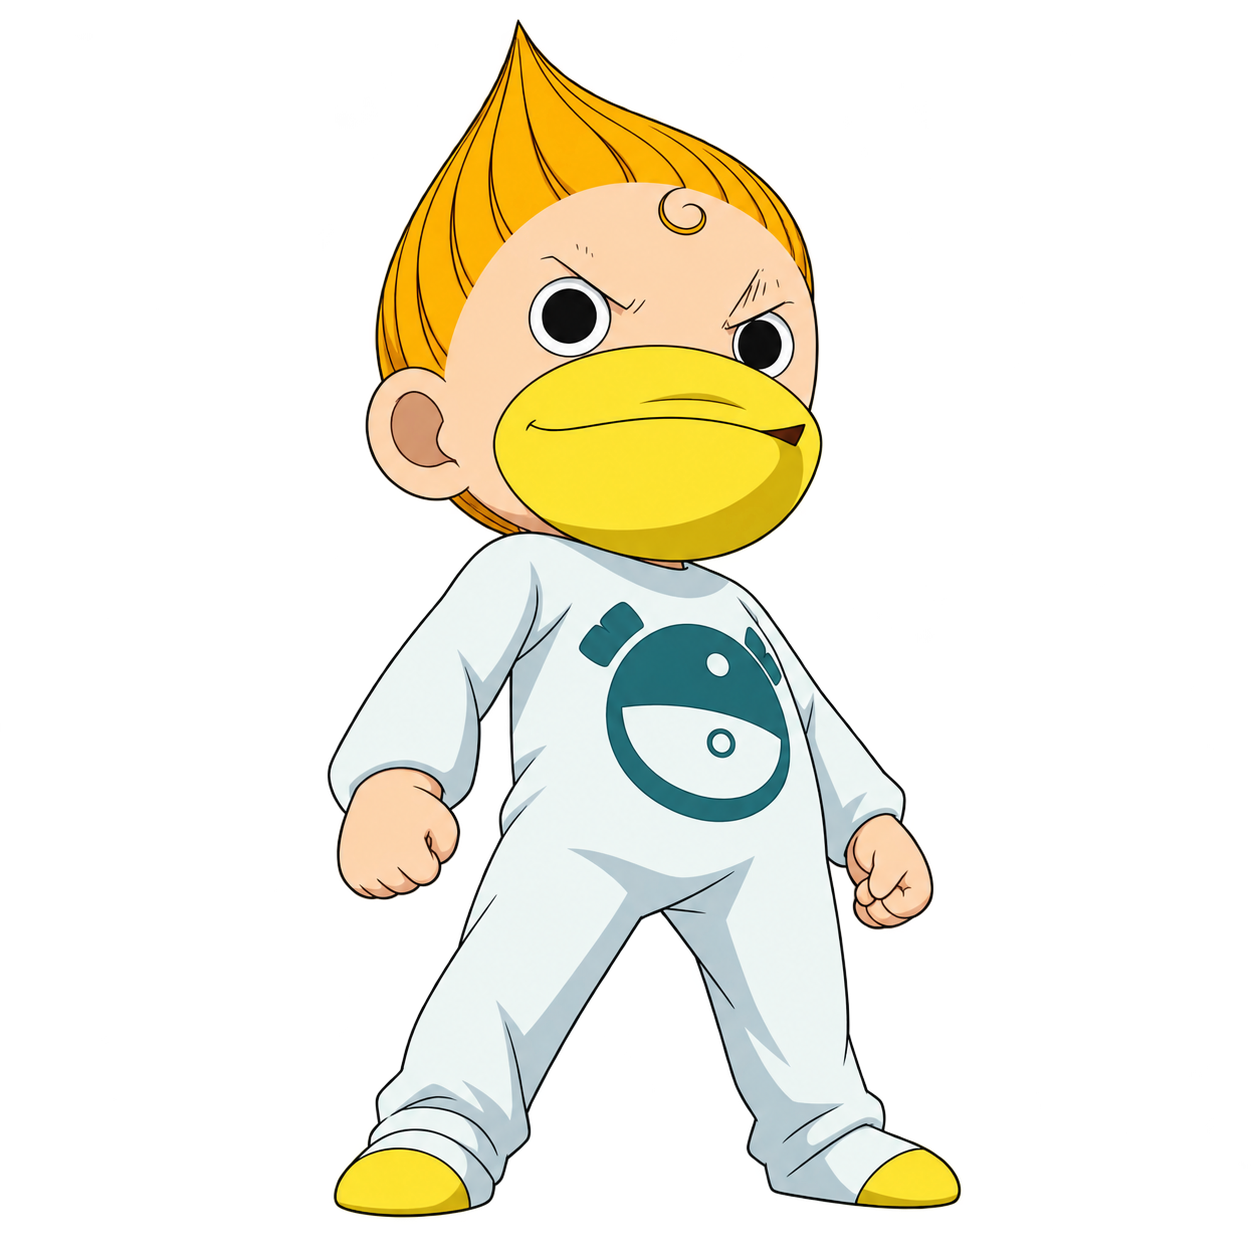
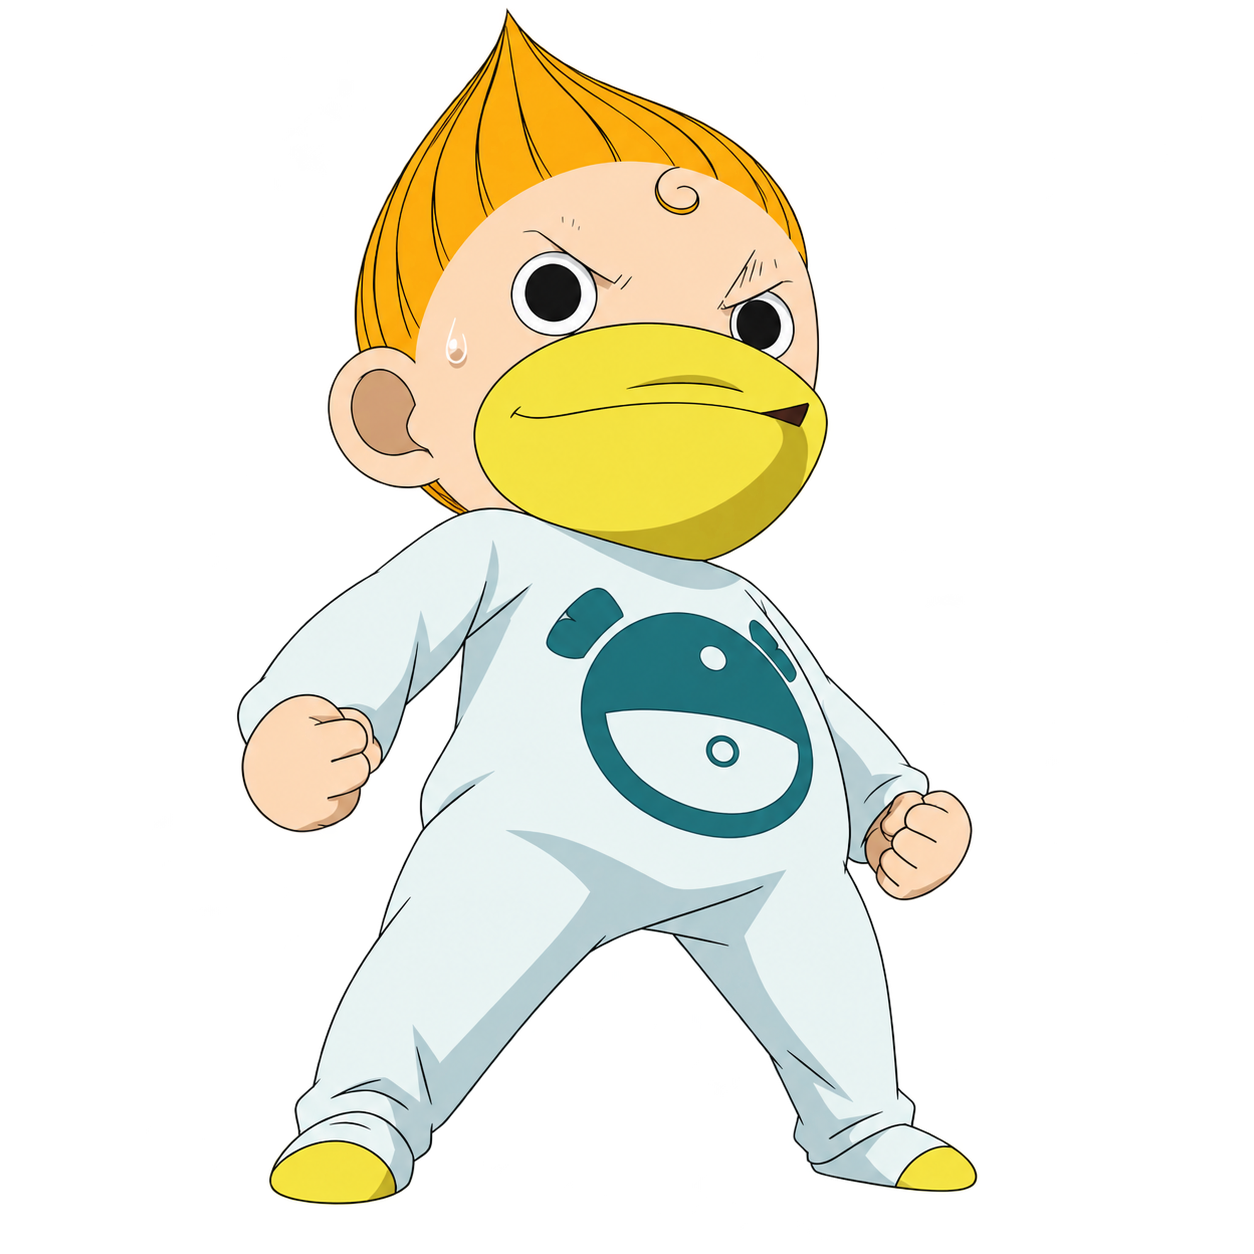
✨ feat: 원본 이미지 기준으로 마스코트 표정 세트 교체

diff --git a/docs/mascot-prompts.md b/docs/mascot-prompts.md
@@ -1,19 +1,27 @@
 # 마스코트 생성 기록
 
-Codex 기본 내장 image_gen으로 생성했다. 사용자 제공 칸쵸메 이미지는 캐릭터 참조이며, 기본 표정 생성본을 나머지 표정의 참조로 사용했다. 모두 투명 배경(`transparent_background: true`)이다. 개인용 로컬 앱에서만 쓴다.
+Codex 내장 image_gen으로 제작한 두 번째 세트다. 네 표정 모두 사용자가 처음 첨부한 파란 배경 원본만 직접 참조했다. 이전 생성 이미지는 참조하지 않았다. 원본의 얼굴·의상·주먹을 쥔 자세를 유지하고 배경과 표정만 바꾸도록 요청했다. 모두 transparent_background: true이며 개인용 로컬 앱에서만 쓴다.
 
 저장 위치: `src/main/resources/static/mascot/{idle,proud,shock,cry}.png`.
 
-## 기본 표정 프롬프트
+## 공통 프롬프트
 
-Use case: illustration-story. Project asset: single small UI mascot PNG with genuine transparent alpha background. Use attached image as character identity reference: Kanchome, tall golden pointed onion hair, small forehead curl, peach face, very large bright yellow duck lips, black round eyes, white outfit with teal chest emblem and yellow shoes. Redraw this exact character in clean expressive anime cel illustration, recognizable proportions, strong readable silhouette at 72px. One full body character centered in square frame, margin 8% on every side, no crop, no scenery, no floor shadow, no text or watermark. Mood IDLE: confident neutral stance, arms relaxed, attentive slightly cocky expression. Keep original costume and distinctive tall hair; do not replace with generic duck, tuft or blue pants. This asset is for a private personal local app.
+Faithful image edit of the ATTACHED ORIGINAL ANIME SCREENSHOT, not a redesign. This original screenshot is the ONLY identity and style reference. Preserve its exact character silhouette, head-to-body ratio, broad asymmetrical face, enormous oval yellow lips, golden onion-shaped hair with fine black strand lines and forehead curl, eye design, thin slightly imperfect anime linework, original muted cel colors, baggy white long-sleeve suit, dark teal fish emblem and yellow shoes. Keep the ORIGINAL legs-apart fighting stance, arm positions and viewing angle. Do not make cuter, rounder, cleaner, sticker-like, chibi, glossy, 3D or vector. Remove ALL blue scenery, speed lines, ground and ground shadow; real transparent background with clean edges. Entire character including hair and feet in a square canvas, consistent scale and framing, 5% padding, no labels or text.
 
-## 표정 변형 공통 프롬프트
+## 표정별 추가 프롬프트
 
-Use case: identity-preserve. Asset type: single transparent PNG UI mascot. Edit this reference character into the following mood: {expression} Keep EXACT same Kanchome identity, tall pointed golden onion hair and forehead curl, peach skin, huge yellow duck lips, white outfit with teal chest emblem and yellow shoes, clean anime cel shading and linework. Single full-body character, centered, complete hair and feet visible, 8% transparent margin all sides, readable at 72px. Genuine transparent alpha background. No scene, no ground, no cast shadow, no text or watermark. Output only this one character.
+### idle
 
-`{expression}`에 사용한 문장:
+Change ONLY background to transparency and extend hair tip minimally if cut. Keep the exact original confident face and pose. Match original pixels as closely as possible.
 
-- proud: Proud happy smug expression, eyes joyfully closed in upward arcs, chin lifted, chest out, hands on hips, boasting adorably.
-- shock: Shocked startled expression, very wide round eyes, eyebrows raised high, large yellow lips open in surprise, hands raised near cheeks.
-- cry: Crying disappointed expression, squeezed shut eyes with visible big blue tears flowing down cheeks, trembling yellow duck lips, slumped shoulders, both hands rubbing eyes or close to face.
+### proud
+
+Change ONLY facial expression to proud/smug: eyes happily closed in arcs, slightly lifted brows and confident closed yellow lips. Keep original pose, arms, head, body, costume, hair and original drawing style unchanged.
+
+### shock
+
+Change ONLY facial expression to shock: widen eyes and pupils, raise eyebrows, slightly open yellow lips in startled surprise. Keep original pose, arms, head size, body, costume, hair and original drawing style unchanged.
+
+### cry
+
+Change ONLY facial expression to crying: squeezed shut eyes, flowing blue tears down cheeks and downturned trembling yellow lips. Keep original pose, arms, head size, body, costume, hair and original drawing style unchanged.

diff --git a/docs/design.md b/docs/design.md
@@ -45,7 +45,7 @@
 - **빈 상태**: 직접 그리지 말고 `hey(mood, 대사, size)`를 쓴다.
 
 ## 마스코트
-`mascot(mood, size)`가 `static/mascot/{mood}.png`를 표시한다. 사용자가 제공한 칸쵸메 참조 이미지 기반의 투명 배경 팬아트라 개인용으로만 쓴다. 기본·뿌듯·놀람·울음 네 표정을 같은 의상과 그림체로 맞췄다.
+`mascot(mood, size)`가 `static/mascot/{mood}.png`를 표시한다. 사용자가 처음 첨부한 파란 배경 칸쵸메 원본을 네 표정 모두 직접 참조했다. 얼굴 비율·선화·의상·주먹을 쥔 자세를 유지하고 기본·뿌듯·놀람·울음 표정과 배경만 바꿨다. 투명 배경 팬아트라 개인용으로만 쓴다.
 
 | mood | 언제 | 대사 예 |
 |---|---|---|
